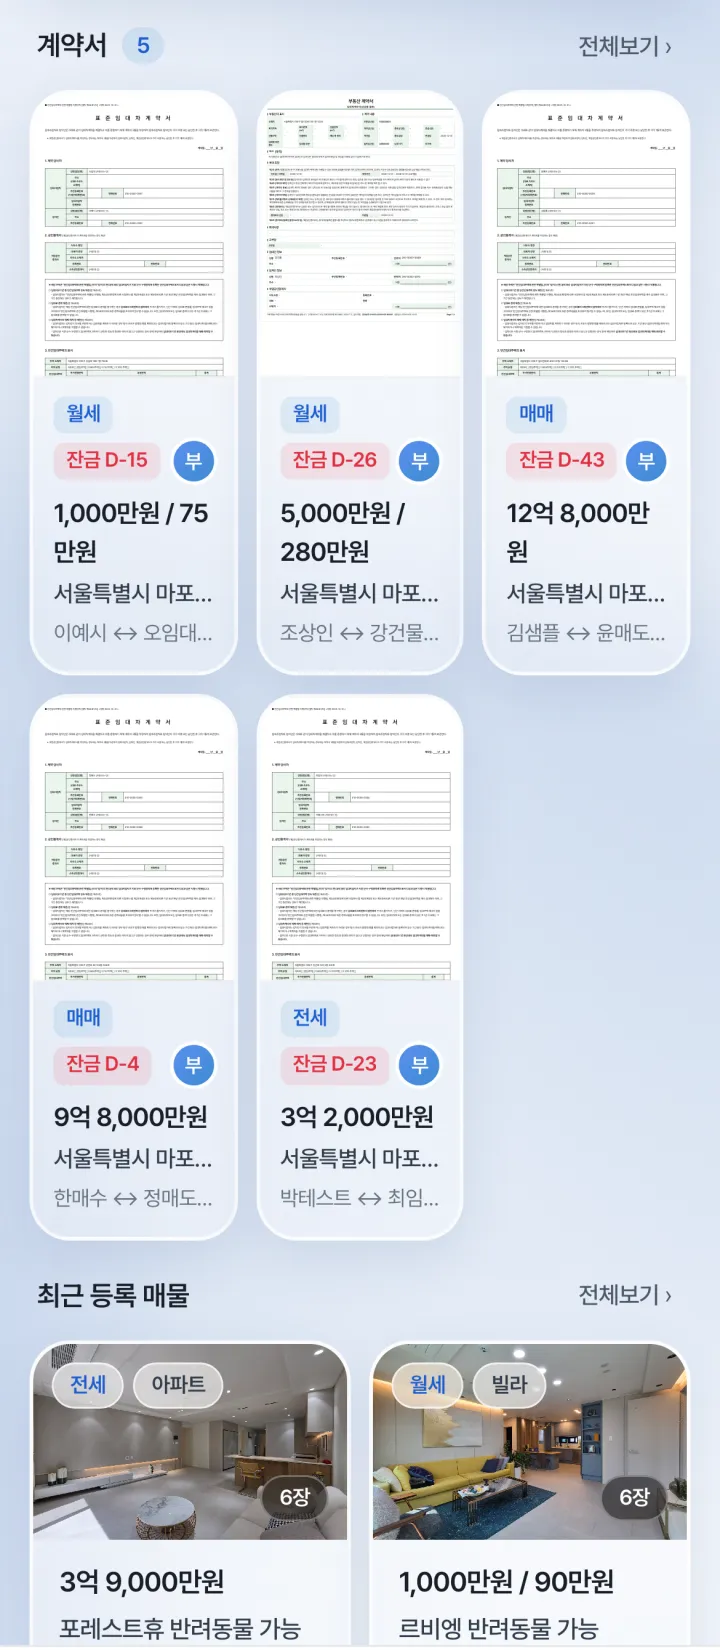
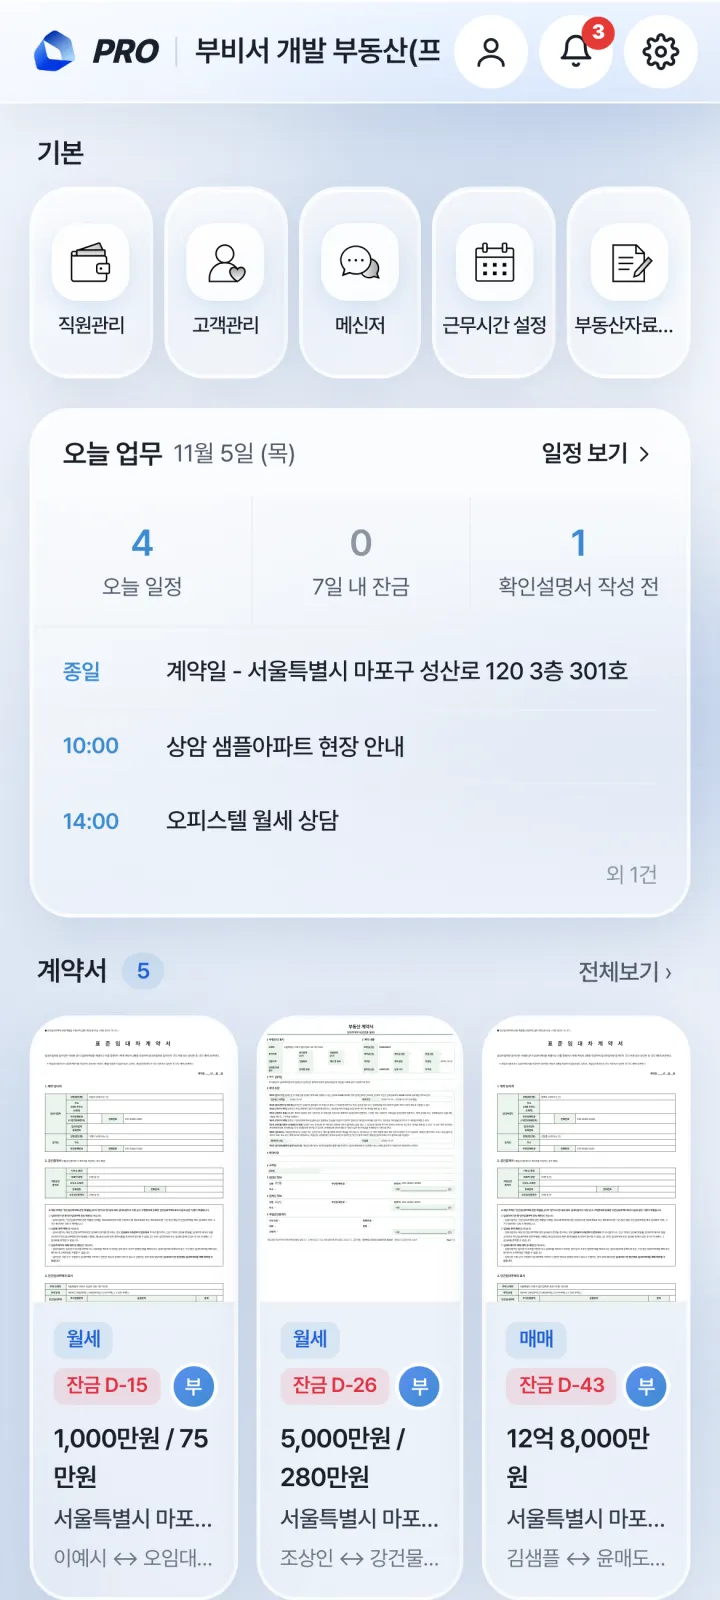
서비스 소개 3차 수정 — 모바일 홈 화면 다시 캡처, 부동산자료자동화 첫 화면·작업 화면 2장, 요금 카드 마우스 올리면 떠오름

diff --git a/assets/about/about.css b/assets/about/about.css
@@ -127,6 +127,14 @@ body.about main, body.about footer { word-break: keep-all; }
 .pro { padding: 40px 0 120px; scroll-margin-top: 72px; }
 .pro .tile { background: linear-gradient(180deg, #f3f6ff 0%, #f4f6f8 100%); }
 .bars--wide { max-width: 640px; margin-left: auto; }
+.duo { display: grid; grid-template-columns: 1fr 1fr; gap: 20px; padding-bottom: 36px; }
+.duo figure { margin: 0; }
+.duo img { width: 100%; border-radius: 14px; background: #fff; box-shadow: 0 20px 50px -24px rgba(17, 24, 39, .35); }
+.duo figcaption { margin-top: 12px; font-size: 14px; font-weight: 500; color: var(--muted); text-align: center; }
+@media (min-width: 1025px) {
+  .tile--side .tile__art { margin-top: -150px; }
+  .tile--side .shot { margin-left: 46%; }
+}
 .tile--short { min-height: 0; }
 @media (min-width: 1025px) { .tile--short .tile__art { margin-top: -120px; } }
 .tile--short .bars { height: 180px; }
@@ -148,7 +156,7 @@ body.about main, body.about footer { word-break: keep-all; }
 
 /* ===== 4. 서비스 유형 ===== */
 .plans { padding: 40px 0 120px; scroll-margin-top: 56px; }
-.plans__grid--two { grid-template-columns: repeat(2, 1fr); max-width: 1000px; }
+.plans__grid.plans__grid--two { grid-template-columns: repeat(2, 1fr); max-width: 1000px; }
 .plans__grid { display: grid; grid-template-columns: repeat(3, 1fr); gap: 20px; margin-top: 56px; align-items: stretch; }
 .plan {
   border-radius: var(--radius); background: #fff; border: 1px solid var(--line);
@@ -181,6 +189,15 @@ body.about main, body.about footer { word-break: keep-all; }
 .btn--outline {
   color: var(--ink) !important; border: 2px solid transparent;
   background: linear-gradient(#fff, #fff) padding-box, var(--grad) border-box;
+}
+.plan { transition: transform .28s ease, box-shadow .28s ease; }
+@media (hover: hover) and (pointer: fine) {
+  .plan:hover { transform: translateY(-8px); box-shadow: 0 36px 70px -28px rgba(17, 24, 39, .28); }
+  .plan--best:hover { box-shadow: 0 40px 80px -28px rgba(80, 90, 255, .45); }
+}
+@media (prefers-reduced-motion: reduce) {
+  .plan { transition: none; }
+  .plan:hover { transform: none; }
 }
 .plans__foot { margin-top: 28px; font-size: 14px; color: var(--muted); line-height: 1.7; }
 
@@ -234,7 +251,7 @@ body.about main, body.about footer { word-break: keep-all; }
   .span-7, .span-5 { grid-column: span 12; }
   .span-4 { grid-column: span 6; }
   .span-4:last-child { grid-column: span 12; }
-  .scale__grid, .plans__grid, .plans__grid--two { grid-template-columns: 1fr; }
+  .scale__grid, .plans__grid, .plans__grid.plans__grid--two { grid-template-columns: 1fr; }
 }
 
 @media (max-width: 640px) {
@@ -262,6 +279,7 @@ body.about main, body.about footer { word-break: keep-all; }
   .tile p br, .sub br { display: none; }
   .shot { margin-right: -24px; margin-left: 8%; }
   .phone { width: 220px; margin-bottom: -50px; }
+  .duo { grid-template-columns: 1fr; gap: 16px; padding-bottom: 24px; }
   .bars { height: 150px; padding-bottom: 24px; gap: 10px; }
   .scale__grid, .plans__grid { margin-top: 32px; gap: 14px; }
   .rec { padding: 26px 24px 104px; min-height: 0; }

diff --git a/about.html b/about.html
@@ -87,7 +87,7 @@
             <p>휴대폰에서 등록한 매물이 사무실 PC에 바로. <br />모바일 앱과 PC버전이 실시간으로 연동됩니다.</p>
             <div class="devices"><span>모바일 앱</span><span>PC버전</span><span>실시간 연동</span></div>
             <div class="tile__art">
-              <div class="phone"><img src="assets/about/mobile-home.webp" width="720" height="1650" alt="부비서 모바일 앱 홈 화면 — 계약서와 최근 등록 매물" loading="lazy" /></div>
+              <div class="phone"><img src="assets/about/mobile-home.webp" width="720" height="1600" alt="부비서 모바일 앱 홈 화면 — 기본 메뉴, 오늘 업무, 계약서" loading="lazy" /></div>
             </div>
           </article>
 
@@ -140,7 +140,7 @@
         </div>
 
         <div class="bento">
-          <article class="tile span-7">
+          <article class="tile span-12 tile--side">
             <h3>고객관리<span class="pro-badge">프로</span></h3>
             <p>고객을 등록하고 상담 단계를 관리합니다. <br />통화 후 바로 고객을 등록하고, 계약서·일정에 고객을 연결합니다.</p>
             <a class="more" href="pricing.html">자세히 보기</a>
@@ -149,12 +149,16 @@
             </div>
           </article>
 
-          <article class="tile span-5">
+
+          <article class="tile span-12">
             <h3>부동산자료자동화<span class="pro-badge">프로</span></h3>
-            <p>주소 한 줄이면 공공 자료를 모아 <br />건물 시세 브리핑 자료(PDF·공유 링크)를 만듭니다.</p>
+            <p>주소 한 줄이면 공공 자료를 모아 <br />건물 시세 브리핑 자료(PDF·공유 링크)를 만들고, 금액만 넣으면 수익률까지 계산합니다.</p>
             <a class="more" href="pricing.html">자세히 보기</a>
             <div class="tile__art">
-              <div class="shot"><img src="assets/about/briefing.webp" width="1000" height="625" alt="부동산자료자동화 화면 — 주소 입력창" loading="lazy" /></div>
+              <div class="duo">
+                <figure><img src="assets/about/briefing.webp" width="1400" height="875" alt="부동산자료자동화 첫 화면 — 주소 입력창" loading="lazy" /><figcaption>첫 화면 · 주소 입력</figcaption></figure>
+                <figure><img src="assets/about/briefing-work.webp" width="1400" height="875" alt="부동산자료자동화 작업 화면 — 왼쪽 입력, 오른쪽 브리핑 자료 미리보기" loading="lazy" /><figcaption>작업 화면 · 입력과 미리보기</figcaption></figure>
+              </div>
             </div>
           </article>
 
